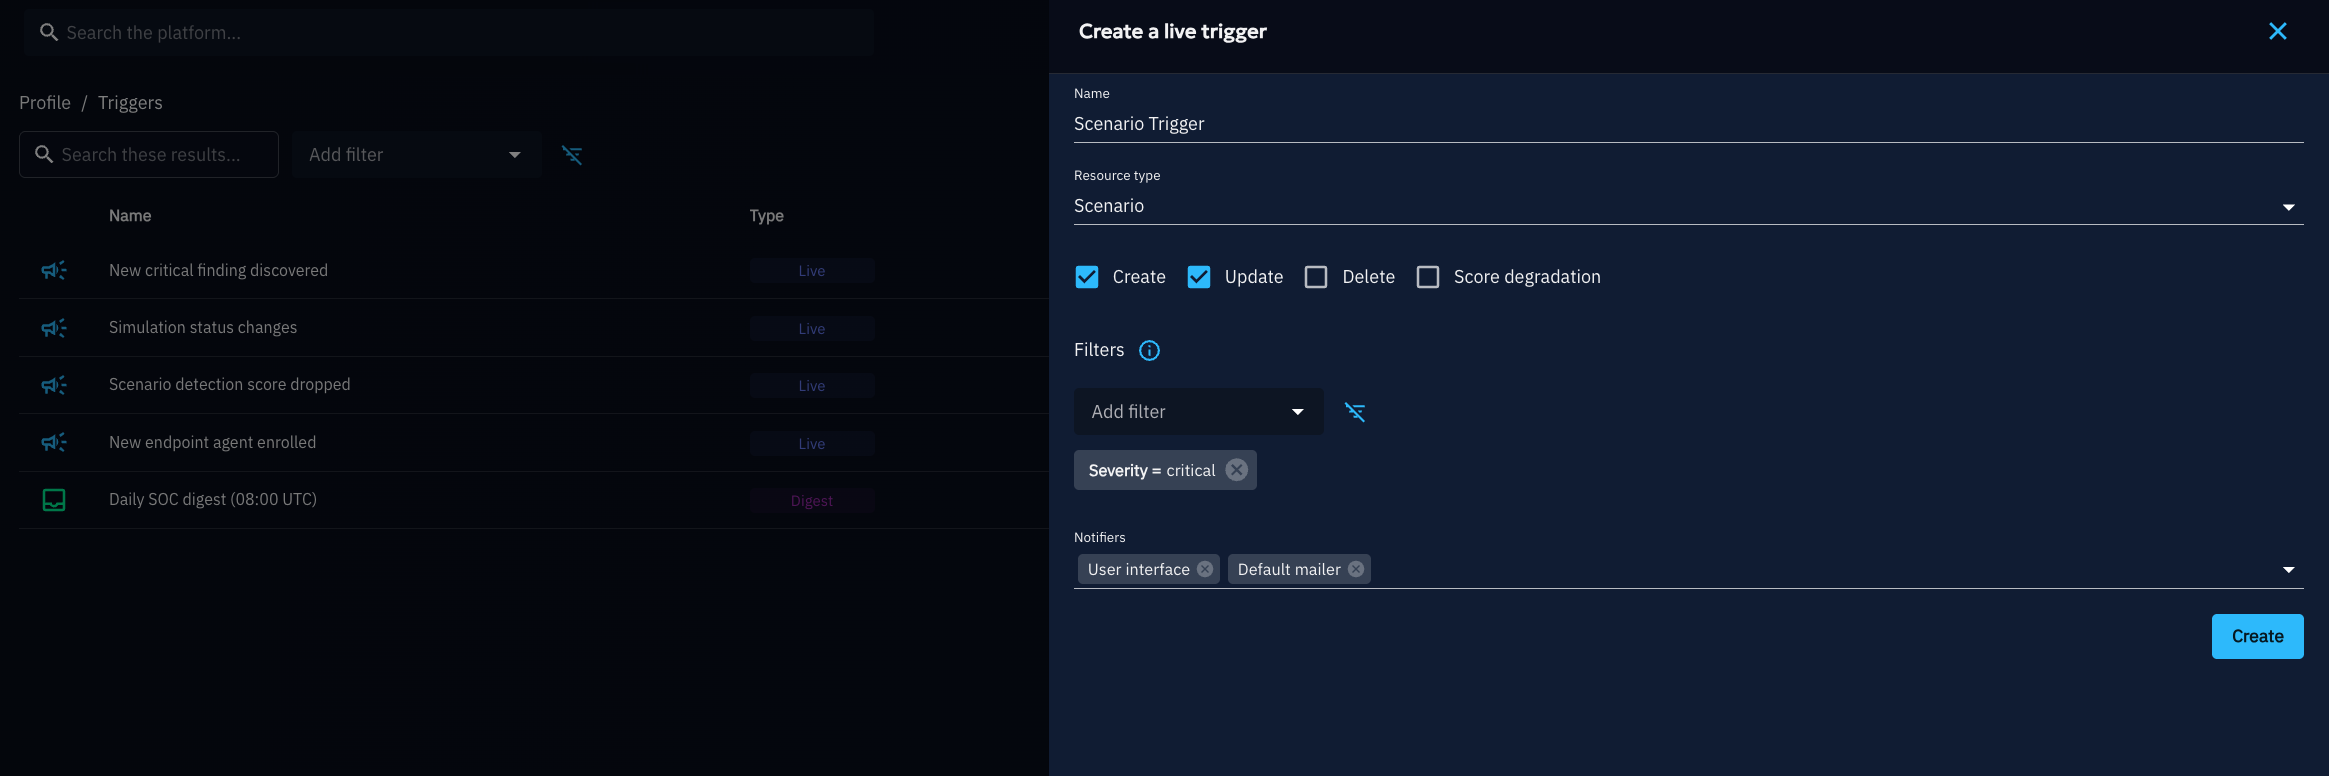
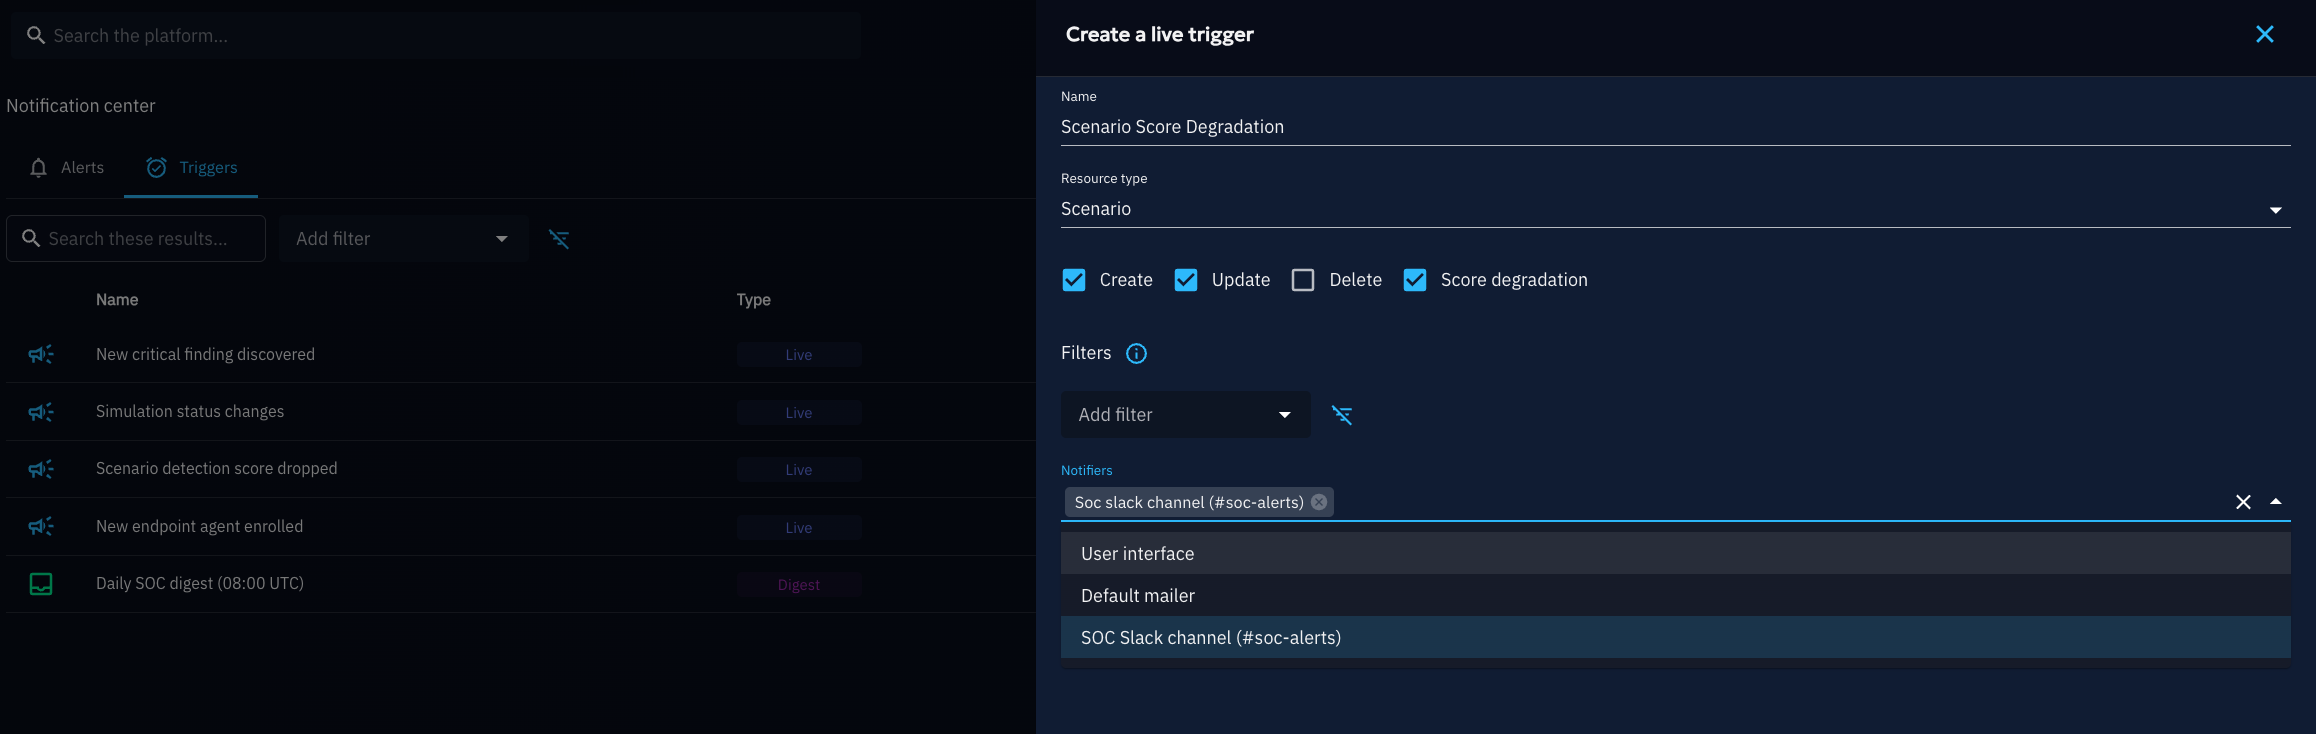
docs(notifications): reflect the merged notification center UI (#7782)
PR #7784 merged Notifications and Triggers into a single Notification
Center reachable from one bell icon, presented as two tabs (Alerts /
Triggers) instead of two separate top-nav icons. Update the docs and
screenshots accordingly:

- overview.md: describe the single bell icon and its two tabs instead
  of a bell + clock pair
- triggers.md: point to the Triggers tab of the Notification Center
  instead of a standalone Triggers page/clock icon
- notification-center.md: clarify this page covers the Alerts tab of
  the Notification Center
- refresh all 5 screenshots to show the new tabbed UI

diff --git a/docs/docs/usage/notifications/triggers.md b/docs/docs/usage/notifications/triggers.md
@@ -1,7 +1,7 @@
 # Triggers
 
-The **Triggers** page defines what you get notified about, and how. This page details how to create, configure, and
-manage Triggers, including the quick-subscribe shortcut available on a Scenario's page.
+The **Triggers** tab of the Notification Center defines what you get notified about, and how. This page details how
+to create, configure, and manage Triggers, including the quick-subscribe shortcut available on a Scenario's page.
 
 ## What Is a Trigger?
 
@@ -21,7 +21,7 @@ Both types share the same two remaining settings:
   Notifiers that already exist there appear in this list.
 - **Enabled**: a Trigger can be disabled without deleting it, to pause it temporarily.
 
-![Triggers list: four Live Triggers, New critical finding discovered (Finding, Create), Simulation status changes (Simulation, Update), Scenario detection score dropped (Scenario, Score degradation), New endpoint agent enrolled (Agent, Create), and one Digest Trigger, Daily SOC digest (08:00 UTC), composing 4 of them on a Day period, all shown as Enabled](assets/triggers-list.png)
+![Notification Center Triggers tab: four Live Triggers, New critical finding discovered (Finding, Create), Simulation status changes (Simulation, Update), Scenario detection score dropped (Scenario, Score degradation), New endpoint agent enrolled (Agent, Create), and one Digest Trigger, Daily SOC digest (08:00 UTC), composing 4 of them on a Day period, all shown as Enabled](assets/triggers-list.png)
 
 ## Why Use It?
 
@@ -38,7 +38,7 @@ Both types share the same two remaining settings:
 
 ### Create a Live Trigger
 
-1. Open the **Triggers** page (clock icon in the top navigation bar).
+1. Open the **Notification Center** (bell icon in the top navigation bar) and select the **Triggers** tab.
 2. Click **Create Live trigger**.
 3. Name the Trigger.
 4. Select a **Resource type**: Scenario, Simulation, Inject, Finding, Asset, Asset group, Team, Player, Payload,
@@ -51,11 +51,11 @@ Both types share the same two remaining settings:
 7. Select one or more **Notifiers**.
 8. Confirm.
 
-![Create a live trigger drawer: Name set to Scenario Trigger, Resource type set to Scenario, Create and Update checked, a Filter Severity = critical, and Notifiers set to User interface and Default mailer](assets/create-live-trigger-form.png)
+![Create a live trigger drawer: Name set to Scenario Score Degradation, Resource type set to Scenario, Create, Update, and Score degradation checked (Delete unchecked), empty Filters, and the Notifiers dropdown open with Soc slack channel (#soc-alerts) selected alongside User interface and Default mailer](assets/create-live-trigger-form.png)
 
 ### Create a Digest Trigger
 
-1. Open the **Triggers** page and click **Create Regular digest**.
+1. From the **Triggers** tab of the Notification Center, click **Create Regular digest**.
 2. Name the Trigger.
 3. Select the **Composed triggers**: one or more of your existing Live Triggers to roll up.
 4. Select a **Period**: **Hour**, **Day**, **Week**, or **Month**. Week and Month additionally ask for a day (day
@@ -63,7 +63,7 @@ Both types share the same two remaining settings:
 5. Select one or more **Notifiers**.
 6. Confirm.
 
-![Create a regular digest drawer: Name set to Daily Simulation Digest, Composed triggers set to Simulation status changes, Period set to Day, Time 09:00 UTC, and Notifiers set to Soc slack channel (#soc-alerts)](assets/create-digest-trigger-form.png)
+![Create a regular digest drawer: Name set to Daily Digest for Scenarios, Composed triggers set to Scenario detection score dropped, Period set to Day, Time 09:00 UTC, and the Notifiers dropdown open with Default mailer selected alongside User interface and SOC Slack channel (#soc-alerts)](assets/create-digest-trigger-form.png)
 
 !!! note
 

diff --git a/docs/docs/usage/notifications/overview.md b/docs/docs/usage/notifications/overview.md
@@ -1,9 +1,10 @@
 # Notifications & Triggers
 
 OpenAEV keeps you informed about what happens on the platform without requiring you to constantly check every
-Scenario, Simulation, or Asset yourself. Two icons in the top navigation bar give you access to this system: the bell
-opens the **Notification Center**, where you review what happened, and the clock opens the **Triggers** page, where
-you define what you want to be notified about, and how.
+Scenario, Simulation, or Asset yourself. A single bell icon in the top navigation bar gives you access to this
+system: it opens the **Notification Center**, a two-tab page with an **Alerts** tab, where you review what happened,
+and a **Triggers** tab, where you define what you want to be notified about, and how. The bell stays highlighted
+while either tab is open.
 
 ## What Are Notifications & Triggers?
 
@@ -11,9 +12,9 @@ you define what you want to be notified about, and how.
   It watches one Resource type (Scenario, Simulation, Inject, Finding, Asset, and more), one or more Event types
   (creation, modification, deletion), and sends matching alerts through one or more **Notifiers** (in-app, Email, or
   Webhook).
-- A **Notification** is what a Trigger produces once its conditions are met. Every Notification lands in your
-  **Notification Center**, accessible from the bell icon, in addition to being pushed to whichever Notifier(s) the
-  Trigger uses.
+- A **Notification** is what a Trigger produces once its conditions are met. Every Notification lands in the
+  **Notification Center**'s **Alerts** tab, accessible from the bell icon, in addition to being pushed to whichever
+  Notifier(s) the Trigger uses.
 
 Triggers come in two flavors:
 
@@ -32,16 +33,15 @@ Triggers come in two flavors:
 - **Subscribe in one click**: use the quick-subscribe bell on a Scenario's page when you only care about that
   single Scenario, without configuring Resource type, Event types, or filters yourself.
 
-![Notification Center list: five Notifications with color-coded Operation chips (Creation, Modification, Score degradation, Multiple for a Digest), their Message, Original creation date, and the Trigger name that produced each one](assets/notification-center-list.png)
+![Notification Center Alerts tab: five Notifications with color-coded Operation chips (Creation, Modification, Score degradation, Multiple for a Digest), their Message, Original creation date, and the Trigger name that produced each one, with the Alerts and Triggers tabs shown below the Notification center header](assets/notification-center-list.png)
 
 ## How Do I Do It?
 
-1. Open the **Triggers** page (clock icon in the top navigation bar) and create a Live or Digest Trigger, or click
-   the subscribe bell in a Scenario's header for a one-click Trigger scoped to that Scenario. See
-   [Triggers](triggers.md) for the full walkthrough.
-2. Open the **Notification Center** (bell icon in the top navigation bar) to review incoming Notifications, jump to
-   the entity that triggered one, and manage them (mark as read, delete, bulk actions). See
-   [Notification Center](notification-center.md) for details.
+1. Open the **Notification Center** (bell icon in the top navigation bar) and select the **Triggers** tab to create
+   a Live or Digest Trigger, or click the subscribe bell in a Scenario's header for a one-click Trigger scoped to
+   that Scenario. See [Triggers](triggers.md) for the full walkthrough.
+2. Select the **Alerts** tab to review incoming Notifications, jump to the entity that triggered one, and manage
+   them (mark as read, delete, bulk actions). See [Notification Center](notification-center.md) for details.
 
 ## What's Next?
 

diff --git a/docs/docs/usage/notifications/notification-center.md b/docs/docs/usage/notifications/notification-center.md
@@ -1,12 +1,15 @@
 # Notification Center
 
-The **Notification Center** is where every Notification produced by your Triggers lands. This page details how to
-read, filter, and manage it.
+The **Notification Center** is where every Notification produced by your Triggers lands. It is reachable from the
+bell icon in the top navigation bar and has two tabs: **Alerts**, covered by this page, and **Triggers**, where you
+configure what you're notified about (see [Triggers](triggers.md)). This page details how to read, filter, and
+manage the Alerts tab.
 
 ## What Is the Notification Center?
 
-The Notification Center is a personal, paginated list accessible from the bell icon in the top navigation bar. The
-bell shows a colored dot whenever you have at least one unread Notification.
+The **Alerts** tab is a personal, paginated list of every Notification you received. The bell shows a colored dot
+whenever you have at least one unread Notification, and stays highlighted while either tab of the Notification
+Center is open.
 
 Each row in the list shows:
 
@@ -20,7 +23,7 @@ Each row in the list shows:
 - **Trigger name**: the name of the Trigger that produced the Notification, shown as a chip. Clicking it filters the
   list down to that Trigger's Notifications only.
 
-![Notification Center list: a Multiple (Digest) row from Daily soc digest, a Creation row from New critical finding discovered describing a Finding on a host, a Creation row from New endpoint agent enrolled describing an Agent enrollment, a Score degradation row from Scenario detection score dropped, and a Modification row from Simulation status changes, with read/unread toggle and delete actions on the right](assets/notification-center-detail.png)
+![Notification Center Alerts tab: the Notification center header with Alerts and Triggers tabs, a Multiple (Digest) row from Daily soc digest, a Creation row from New critical finding discovered describing a Finding on a host, a Creation row from New endpoint agent enrolled describing an Agent enrollment, a Score degradation row from Scenario detection score dropped, and a Modification row from Simulation status changes, with read/unread toggle and delete actions on the right](assets/notification-center-detail.png)
 
 ## Why Use It?
 
@@ -35,7 +38,7 @@ Each row in the list shows:
 
 ### Review a Notification
 
-1. Click the bell icon in the top navigation bar to open the Notification Center.
+1. Click the bell icon in the top navigation bar to open the Notification Center's **Alerts** tab.
 2. Click a **Live** Notification's row to open the entity that produced it in a new context, for example, the
    Scenario whose score degraded, or the Asset that was created. A Notification is not navigable when its
    Operation is **Deletion** (the entity no longer exists) or when its Resource type has no dedicated detail page
@@ -55,7 +58,7 @@ Each row in the list shows:
 
 ## Example: Investigating a Score Degradation Alert
 
-1. The bell icon shows an unread dot. Open the **Notification Center**.
+1. The bell icon shows an unread dot. Open the **Notification Center**'s **Alerts** tab.
 2. The top row shows an orange **Score degradation** chip, with the message naming the Scenario and the drop in
    score.
 3. Click the row to open the Scenario directly, review the latest Simulation run, and start investigating the
